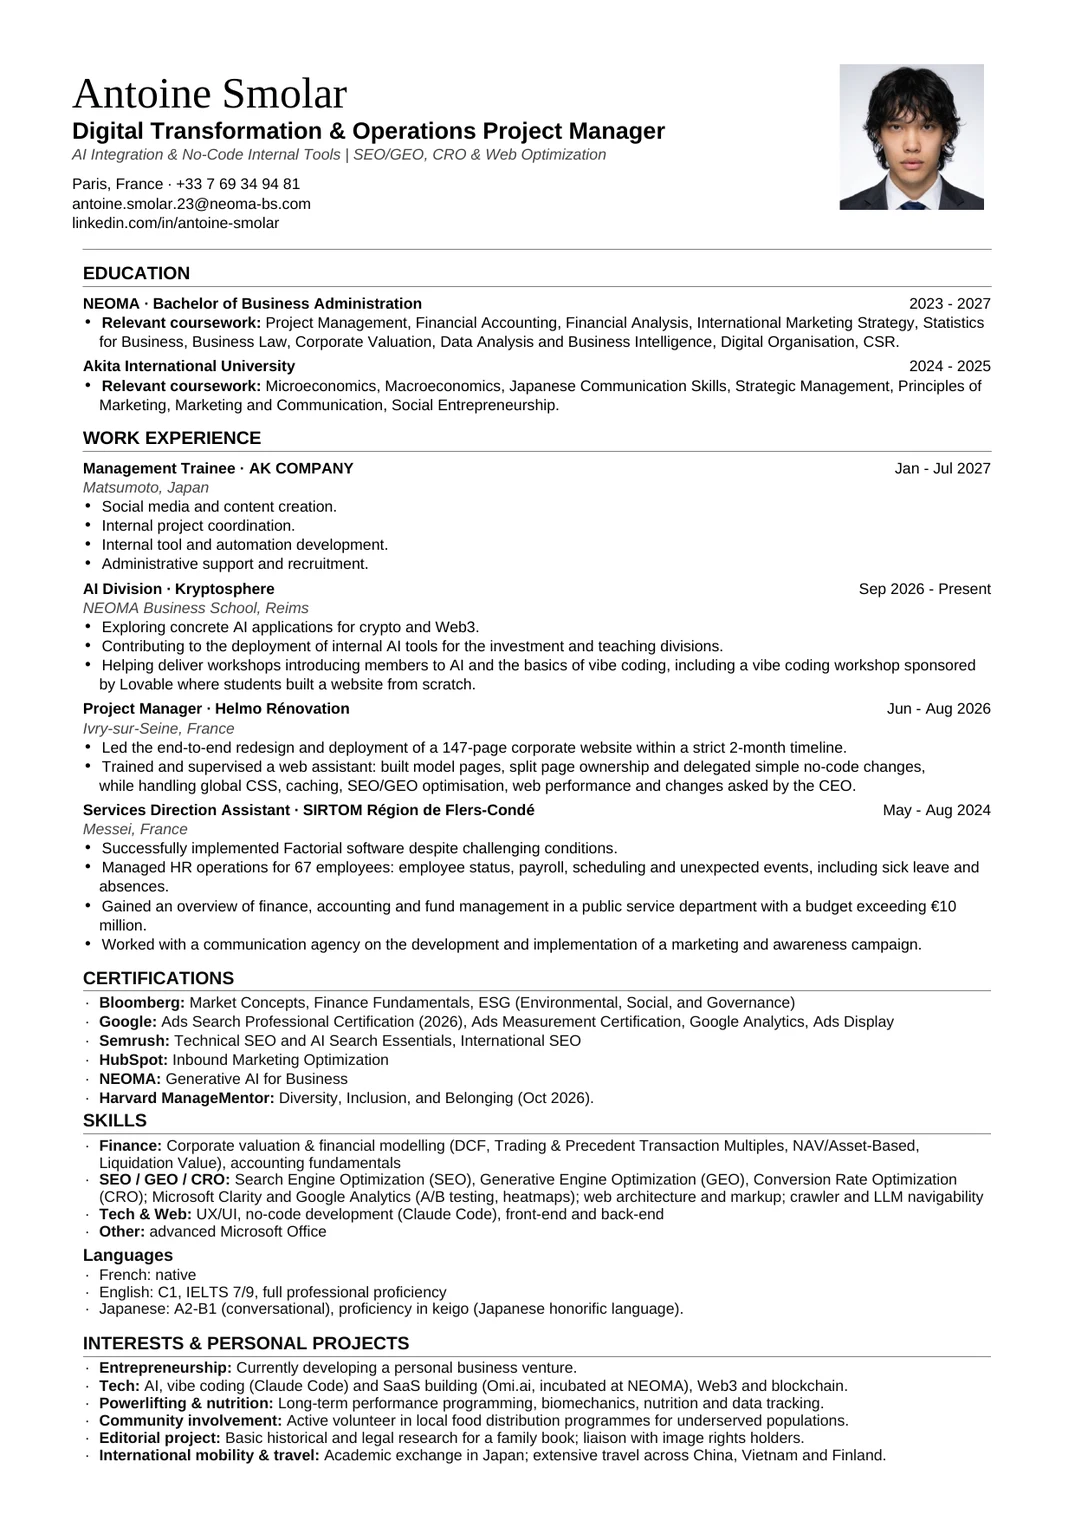
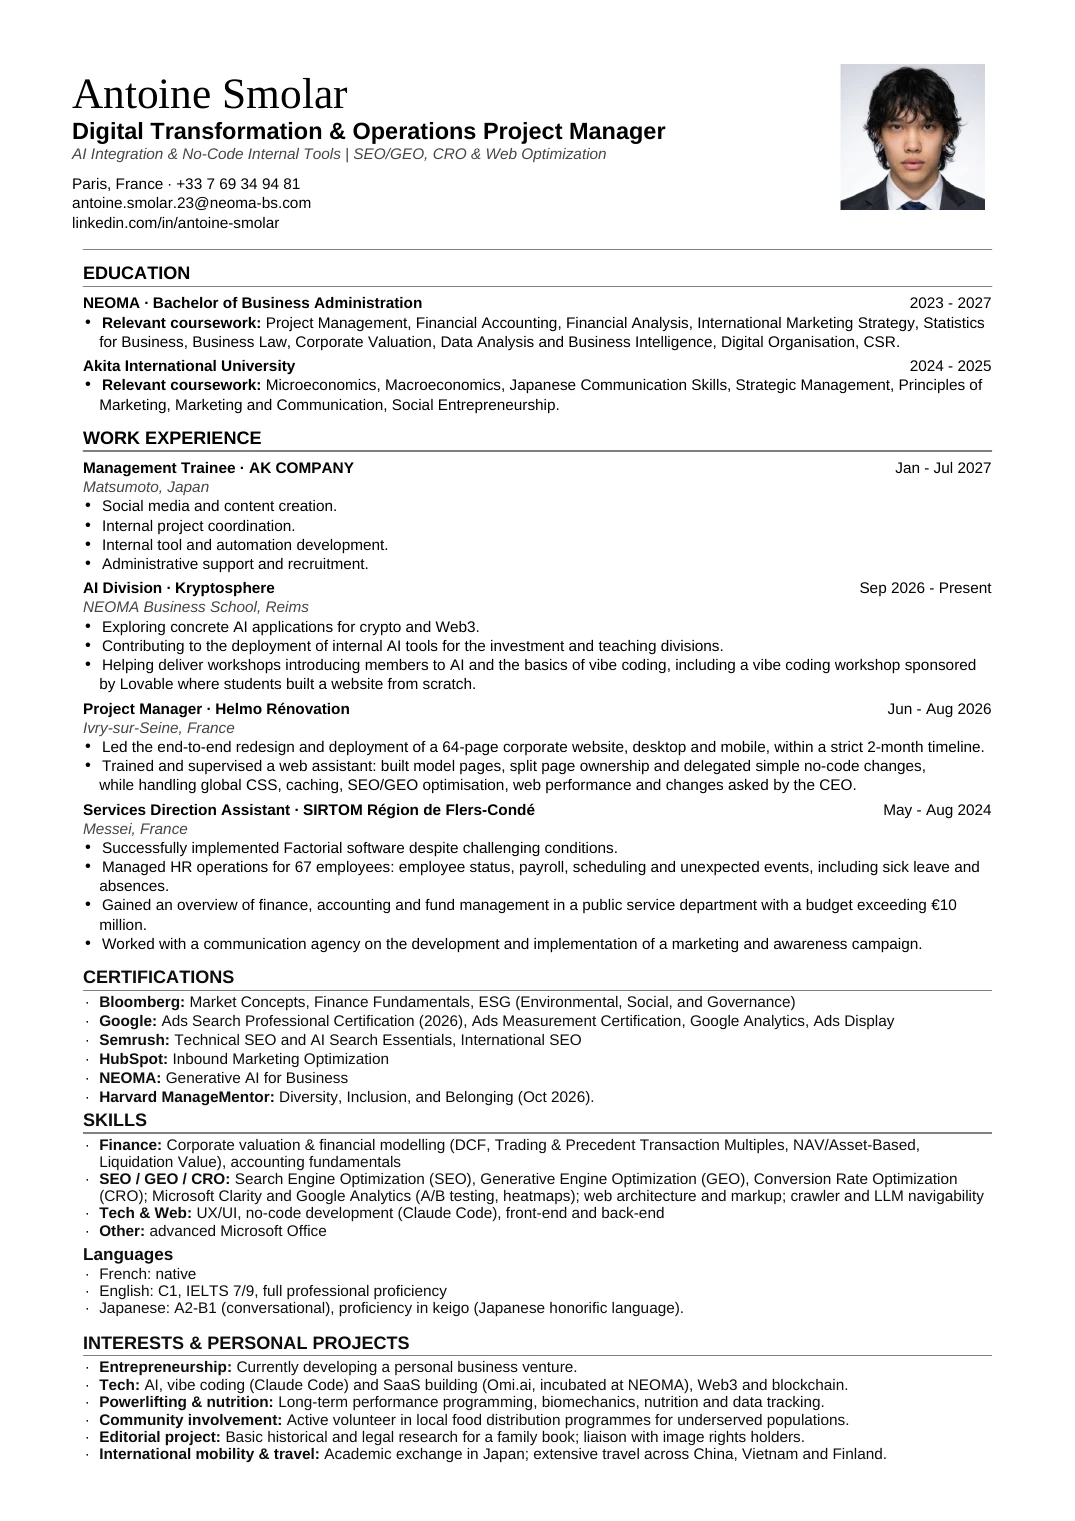
Helmo: 64 pages (desktop + mobile) instead of 147 on CV, card and FAQ
Claude-Session: https://claude.ai/code/session_01RM7J6suh3qVdkb8kUsGcoj

diff --git a/lib/faq.ts b/lib/faq.ts
@@ -24,7 +24,7 @@ export const faq: FaqItem[] = [
   {
     question: "What has Antoine Smolar built?",
     answer:
-      "He led the 2-month redesign of Helmo Rénovation's 147-page website (architecture, SEO/GEO, UX and page speed) and built Omi.ai, an AI onboarding SaaS (currently a working MVP) that turns recorded, narrated work sessions into a knowledge base with an AI mentor. He also co-built Kompute, a team school project for running batch AI jobs on idle gaming GPUs.",
+      "He led the 2-month redesign of Helmo Rénovation's 64-page website, desktop and mobile (architecture, SEO/GEO, UX and page speed), and built Omi.ai, an AI onboarding SaaS (currently a working MVP) that turns recorded, narrated work sessions into a knowledge base with an AI mentor. He also co-built Kompute, a team school project for running batch AI jobs on idle gaming GPUs.",
     sources: [
       { label: "Website case studies", url: `${SITE_URL}/websites` },
       { label: "SaaS products", url: `${SITE_URL}/saas` },
